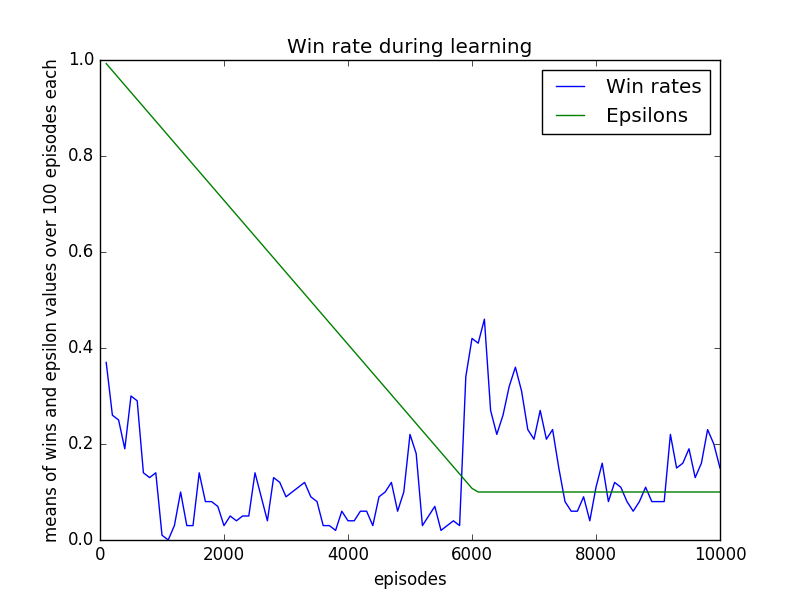
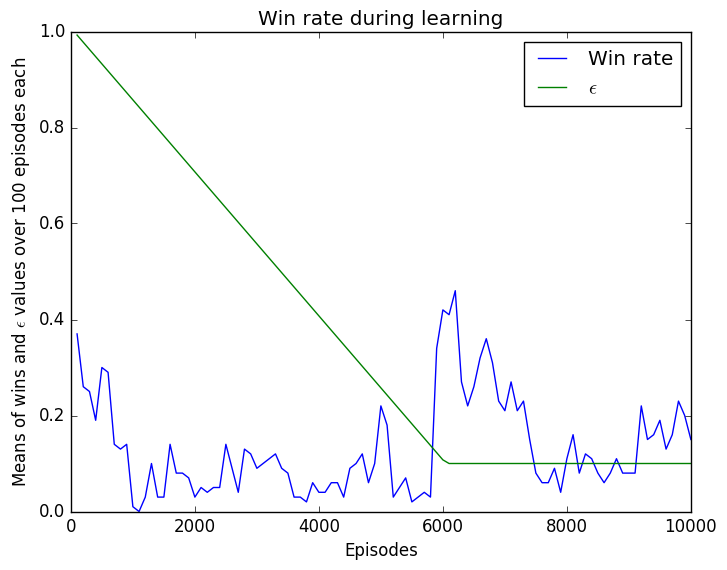
Changes plots

diff --git a/plot.py b/plot.py
@@ -20,13 +20,13 @@ def main(win_stats, epsilon_start, min_epsilon, epsilon_episodes, count):
     episodes = np.arange(count, win_stat_count + 1, count)
     plt.plot(episodes, win_stat_means)
     plt.plot(episodes, epsilon_means)
-    plt.legend(['Win rates', 'Epsilons'])
-    plt.xlabel('episodes')
-    plt.ylabel('means of wins and epsilon values over ' + str(count)
+    plt.legend(['Win rate', r'$\epsilon$'])
+    plt.xlabel('Episodes')
+    plt.ylabel(r'Means of wins and $\epsilon$ values over ' + str(count)
             + ' episodes each')
     plt.title('Win rate during learning')
-    plt.savefig(file_name + '.png')
-    plt.savefig(file_name + '.pdf')
+    plt.savefig(file_name + '.png', bbox_inches='tight')
+    plt.savefig(file_name + '.pdf', bbox_inches='tight')
     # plt.show()
 
 
